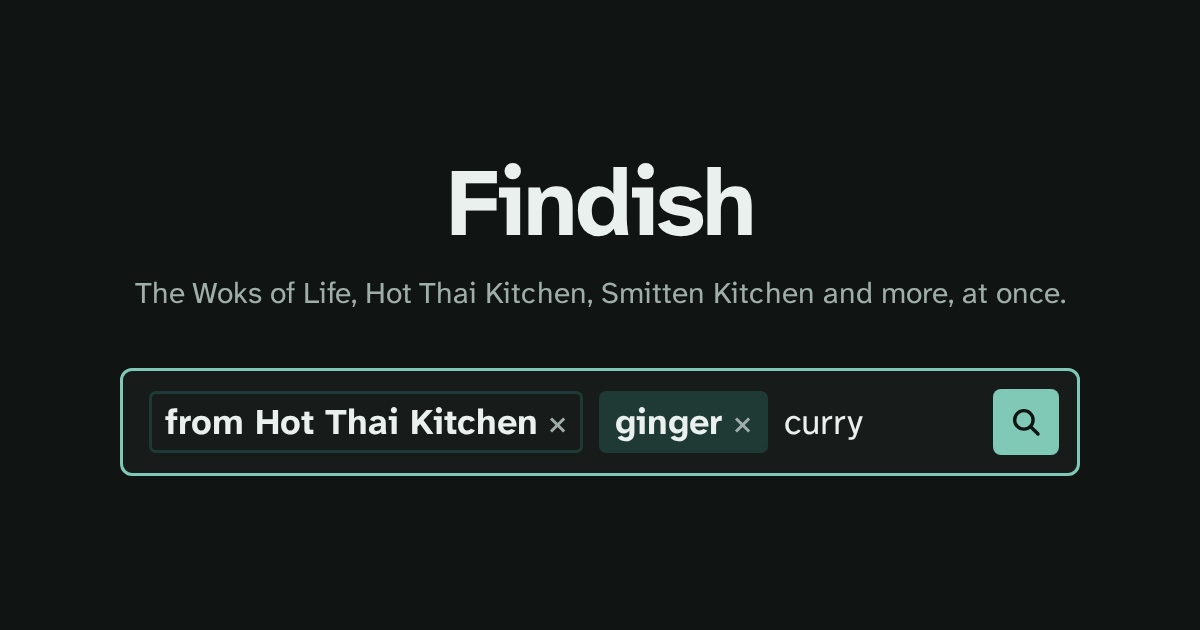
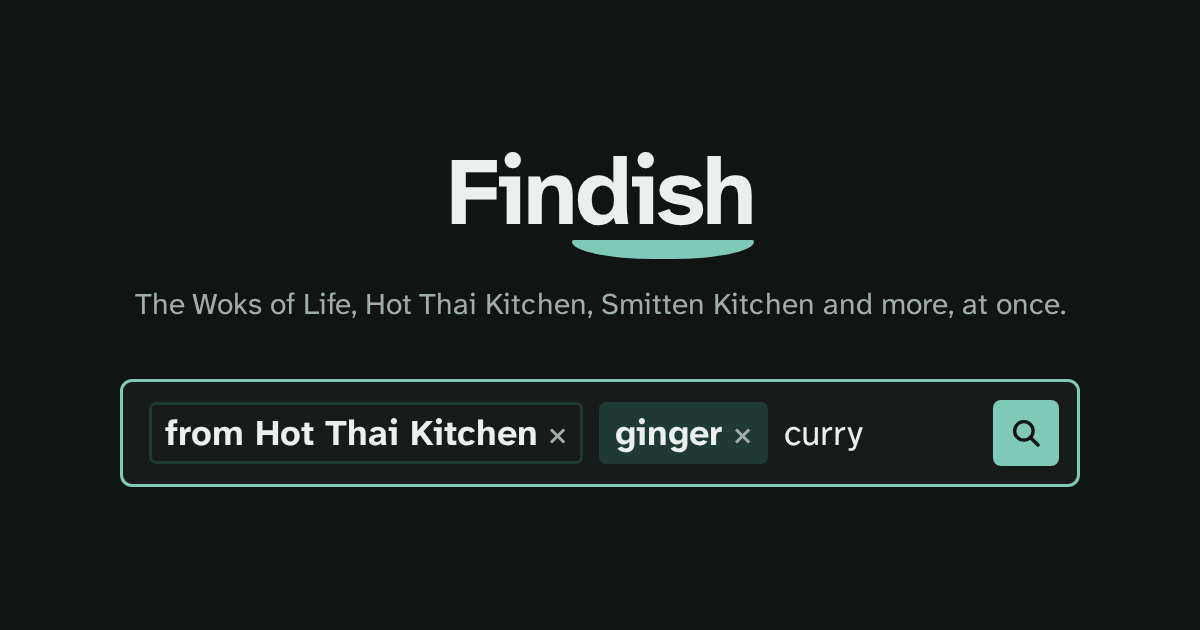
Findish gets a wordmark: "dish" sits in a small nori bowl, on the home page, in results, at the top of every other page and on the share card
Claude-Session: https://claude.ai/code/session_015KDcQFtADrKHdsxcZtkYS5

Changed region(s): [[0.0925, 0.573, 0.8942, 0.7841], [0.0925, 0.4524, 0.8942, 0.5127], [0.37, 0.2413, 0.6475, 0.4222]]

diff --git a/design/og.html b/design/og.html
@@ -7,7 +7,8 @@
 html,body{margin:0}
 body{width:1200px;height:630px;background:#101413;color:#e9f0ee;font-family:A;overflow:hidden;box-sizing:border-box;padding:64px 96px;display:flex;flex-direction:column;align-items:center;justify-content:center;text-align:center}
 .name{font-size:96px;font-weight:700;letter-spacing:-0.03em;line-height:1;margin:0}
-.from{font-size:30px;color:#a0aeaa;margin:22px 0 0}
+.dish{position:relative;display:inline-block}.dish::after{content:'';position:absolute;left:-0.04em;right:0;bottom:-0.2em;height:0.2em;background:#7fc9b6;border-radius:0.02em 0.02em 50% 50%/0.02em 0.02em 100% 100%}
+.from{font-size:30px;color:#a0aeaa;margin:44px 0 0}
 .box{margin-top:56px;width:960px;box-sizing:border-box;display:flex;align-items:center;gap:16px;padding:18px 18px 18px 26px;border:3px solid #7fc9b6;border-radius:12px;background:#171c1b;font-size:36px;text-align:left}
 .tag{font-weight:700;background:#1f3a34;border-radius:7px;padding:8px 16px}
 .creator{background:none;box-shadow:inset 0 0 0 3px #1f3a34}
@@ -15,7 +16,7 @@ body{width:1200px;height:630px;background:#101413;color:#e9f0ee;font-family:A;ov
 .text{flex:1}
 .go{width:66px;height:66px;border-radius:8px;background:#7fc9b6;display:grid;place-items:center}
 </style></head><body>
-<p class="name">Findish</p>
+<p class="name">Fin<span class="dish">dish</span></p>
 <p class="from">The Woks of Life, Hot Thai Kitchen, Smitten Kitchen and more, at once.</p>
 <div class="box"><span class="tag creator">from Hot Thai Kitchen<span class="x">×</span></span><span class="tag">ginger<span class="x">×</span></span><span class="text">curry</span>
 <span class="go"><svg viewBox="0 0 24 24" width="34" height="34"><circle cx="10.5" cy="10.5" r="6.5" fill="none" stroke="#101413" stroke-width="2.4"/><path d="m15.5 15.5 5 5" stroke="#101413" stroke-width="2.4" stroke-linecap="round"/></svg></span></div>

diff --git a/AGENTS.md b/AGENTS.md
@@ -248,6 +248,7 @@ Findish (findish.now; called Recipe search until 2026-11-16, when it moved off k
 - Analytics go to Findish's own Amplitude project, "Findish" (910064), since 2026-11-16, only on findish.now. The key is in `src/lib/site.ts`; `scripts/popularity.mjs` reads the same project with the Actions secrets `AMPLITUDE_API_KEY` and `AMPLITUDE_SECRET_KEY`. Custom events no longer carry `experiment` (that's only for projects sharing kylepace.dev's). Events from before the move stay in the kylepace.dev project (902556) under `experiment: "recipe-search"`.
 - The crawler is FindishBot (renamed from RecipeSearchBot on 2026-11-16, Kyle's call; no indexed site's robots.txt named the old one). Its user agent links to findish.now/about/. `robotsForNames` in `crawler/lib/robots.mjs` applies the rules for every name it has gone by (`OLD_NAMES` in `crawler/crawl.mjs`): a path must be allowed for all of them and the longest Crawl-delay wins, so a block on the old name still holds. Keep old names in that list. Its look is its own: `src/styles/theme.css` overrides the tokens.
 - Photos load straight from each recipe's own site (Kyle's call, 2026-11-08), with no referrer and lazily. A photo five or more recipes share is a site's stand-in ("Photo to come"), so `build-index.mjs` drops it and those recipes show without one. Their hosts are in `.agents/allowed-hosts.txt`. A site that blocks it or asks us to stop gets text-only cards: set `crawl.photos: false` on it in KitchenCatalog's `recipe-sources/sources.json`, then `npm run sync-catalog`.
+- The wordmark ("dish" in a nori bowl) is `src/components/Wordmark.astro`, used in the home page's name and in `src/components/SiteHead.astro`, the link home at the top of every other page. See `design/PLAN.md`.
 - The share cards are `design/og.html`, `og-about.html`, `og-assistants.html` and `og-privacy.html`, rendered to the matching PNGs in `public/`.
 - Run `npm run build` before pushing; it must pass.
 

diff --git a/design/PLAN.md b/design/PLAN.md
@@ -17,6 +17,10 @@
 
 The other two directions considered: a cookbook-index list (one column, time on a dotted leader) and a contact sheet of square photos. Their stylesheets are on the `design-options` branch.
 
+## The wordmark (November 16, 2026)
+
+Findish is set in Atkinson bold with "dish" sitting in a small nori bowl: a solid half-round with a flat rim, so it reads as find + dish. A filled bowl, not a curved line, so it doesn't read as a smile. It's text plus one CSS shape (`src/components/Wordmark.astro`), so it scales, follows light and dark, and screen readers hear "Findish". It's the big name on the home page, the small link home in results, and a link home at the top of every other page (`src/components/SiteHead.astro`, since there's no top bar). The bowl is the one extra place nori appears. The home share card (`design/og.html`) uses it too.
+
 ## The subject
 
 People look for a recipe three ways: by dish ("mapo tofu"), by what they have ("ginger, tofu") and by who they trust ("something from Maangchi"). One box takes all three. Words are words; an ingredient or a creator picked from the suggestions becomes a tag in the box, marked like a highlighter on a shopping list.
